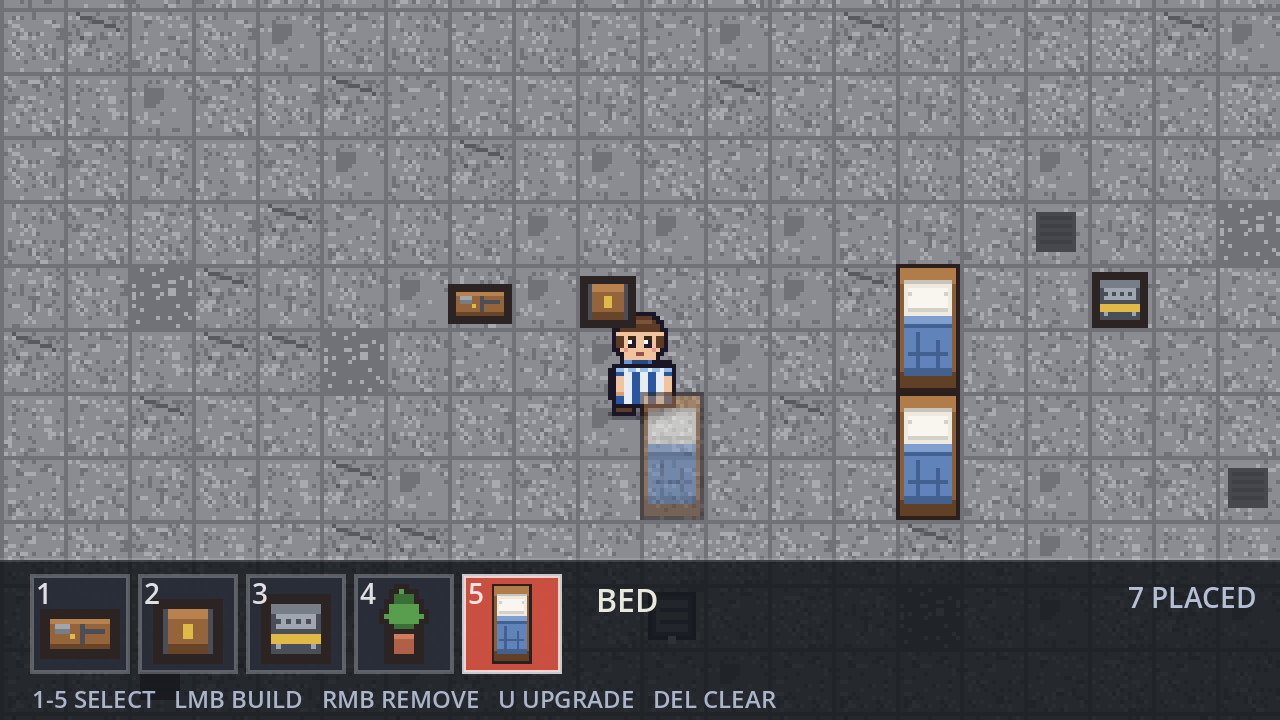
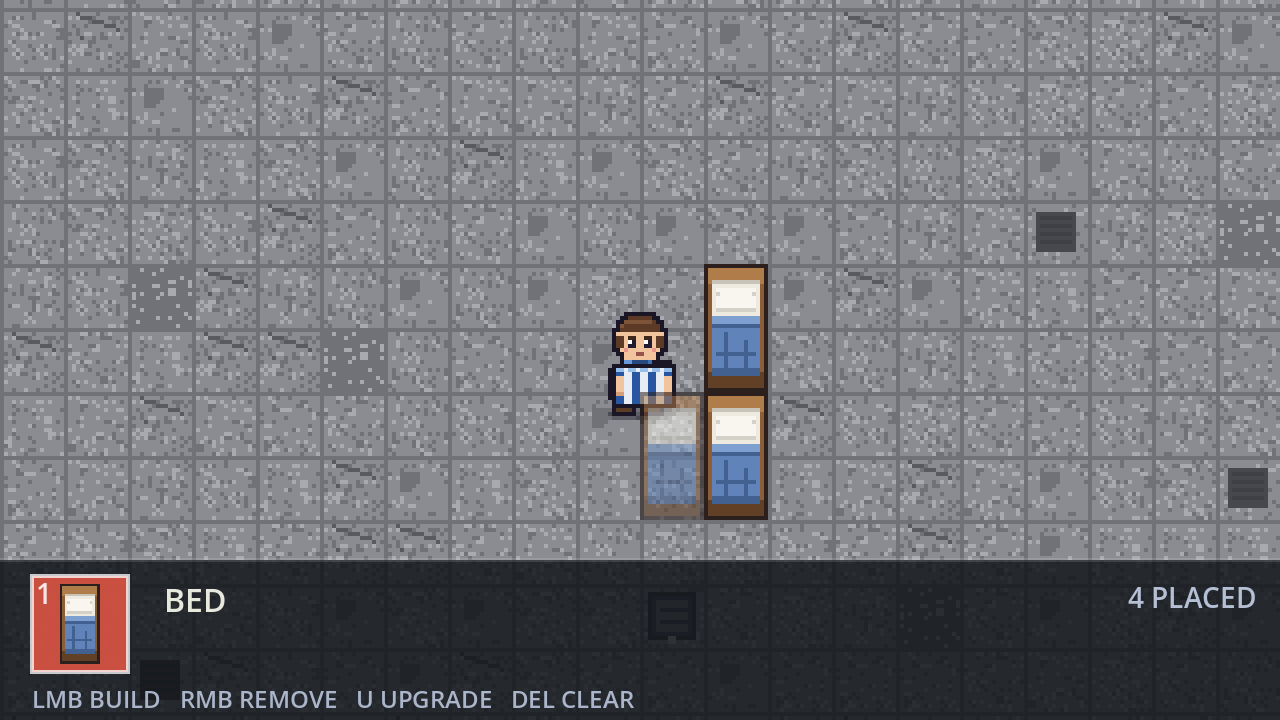
chore: 只保留床这一个建造物，删掉工作台/储物箱/发电机/盆栽

diff --git a/README.md b/README.md
@@ -23,7 +23,7 @@
 | **按住 Tab** | 草地：暂停游戏并打开武器轮盘，鼠标指向槽位、松开装备；基地：进 / 出建造模式 |
 | **E** | 走到平台/地图边缘时：基地 → 草地，或草地 → 基地 |
 | **B** | 直接切换基地 / 草地（快捷键，不用走到边上） |
-| **1 / 2 / 3 / 4** | 基地建造模式下选择要建造的家具 |
+| **1** | 基地建造模式下选择要建造的家具（目前只有床） |
 | **鼠标左键 / 右键** | 基地里放置 / 拆除家具 |
 | **U** | 基地里升级鼠标指着的那件家具 |
 | **Delete** | 清空基地里所有已放置的家具 |
@@ -586,7 +586,7 @@ after 3.5s-> 0 只（确认不再刷）
 - **按 Tab 进 / 出建造模式**：不按 Tab 时就是纯走路，底部只有一行 `TAB - BUILD` 提示；
   按 Tab 才弹出底部家具栏，此时才能选家具、放置、拆除、升级。
 - 家具数据是 `BaseFurniture` 资源（`assets/base/*.tres`）：名字、贴图、`footprint`（占地几格）、`max_level`。
-  现有 5 件：工作台 / 储物箱 / 发电机 / 盆栽（都是 1×1）、**床（1×2）**。
+  目前只有 **床（1×2，可升到 3 级）**。
 - 多格占地是通用的：`cells_for()` 把占地展开成格子列表，放/拆/预览/占位判断都按整块算，
   1×2 的床会同时占住上下两格，和别的家具重叠会被拒绝。
 - `base_builder.gd`：
@@ -596,8 +596,8 @@ after 3.5s-> 0 只（确认不再刷）
     不会出现"摆在地图外"的假象；女儿墙 / 楼顶设备瓦片（舱口/空调/通风口）上不能放；
   - 布局自动存到 `user://base_layout.json`，下次进基地自动还原；
   - **Delete** 一键清空所有家具（存档也一起清空），新档的基地是**空的**。
-- 加新家具：`assets/base/` 里再做一张 16×16 贴图和对应 `.tres`，然后在
-  `base_builder.gd` 的 `_load_types()` 列表里加一行即可（槽位自动多一个）。
+- 加新家具：`assets/base/` 里做一张贴图（尺寸 = 占地格数 × 16）和对应 `.tres`，然后在
+  `base_builder.gd` 的 `_load_types()` 列表里加一行即可（槽位自动多一个，提示里的 `1-N` 也会自动变）。
 
 ## 关键实现
 
